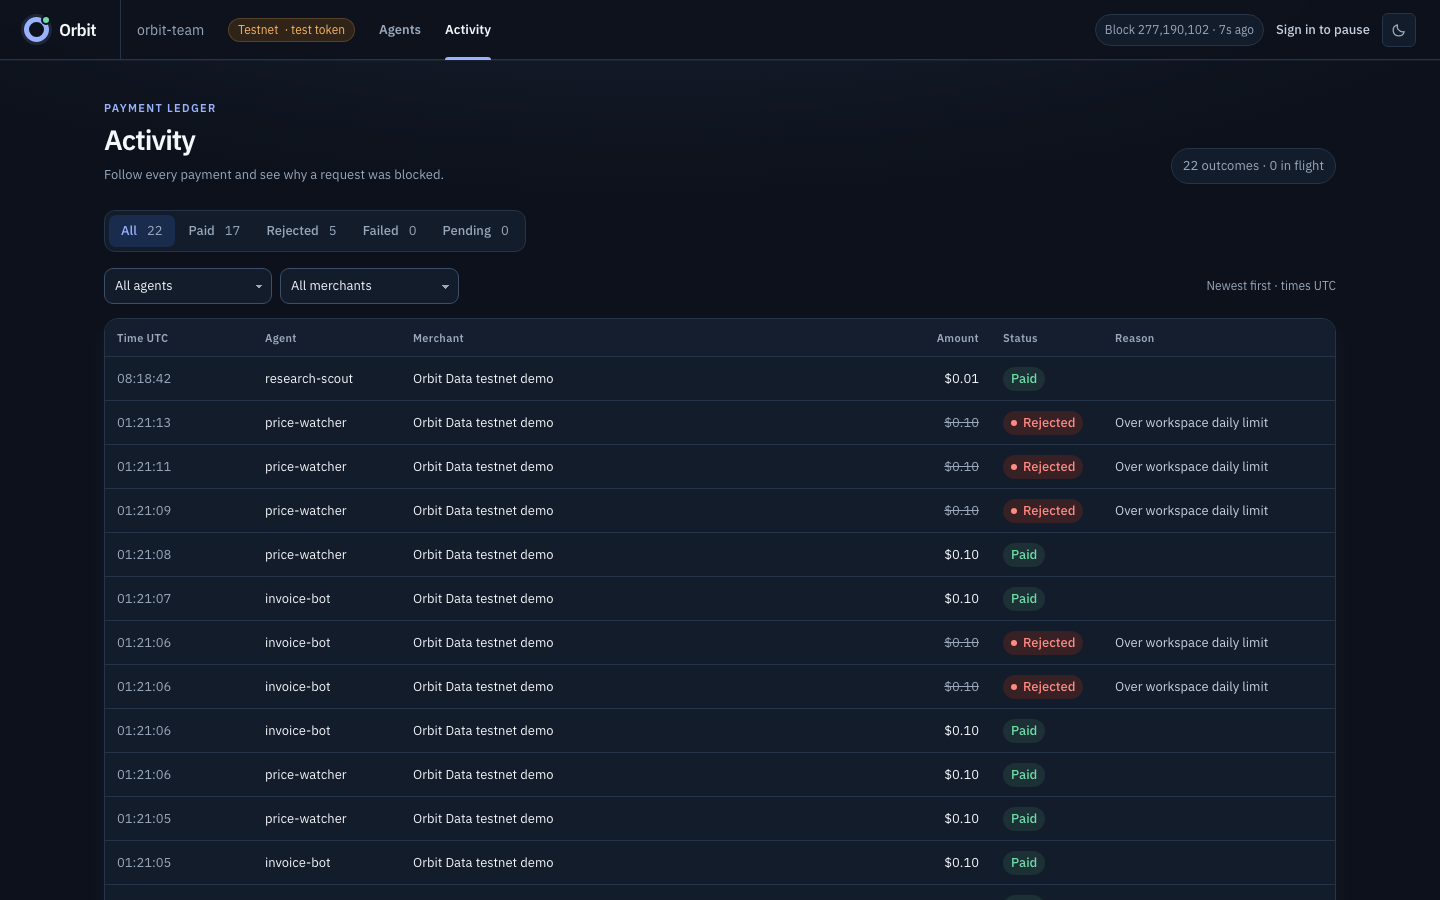
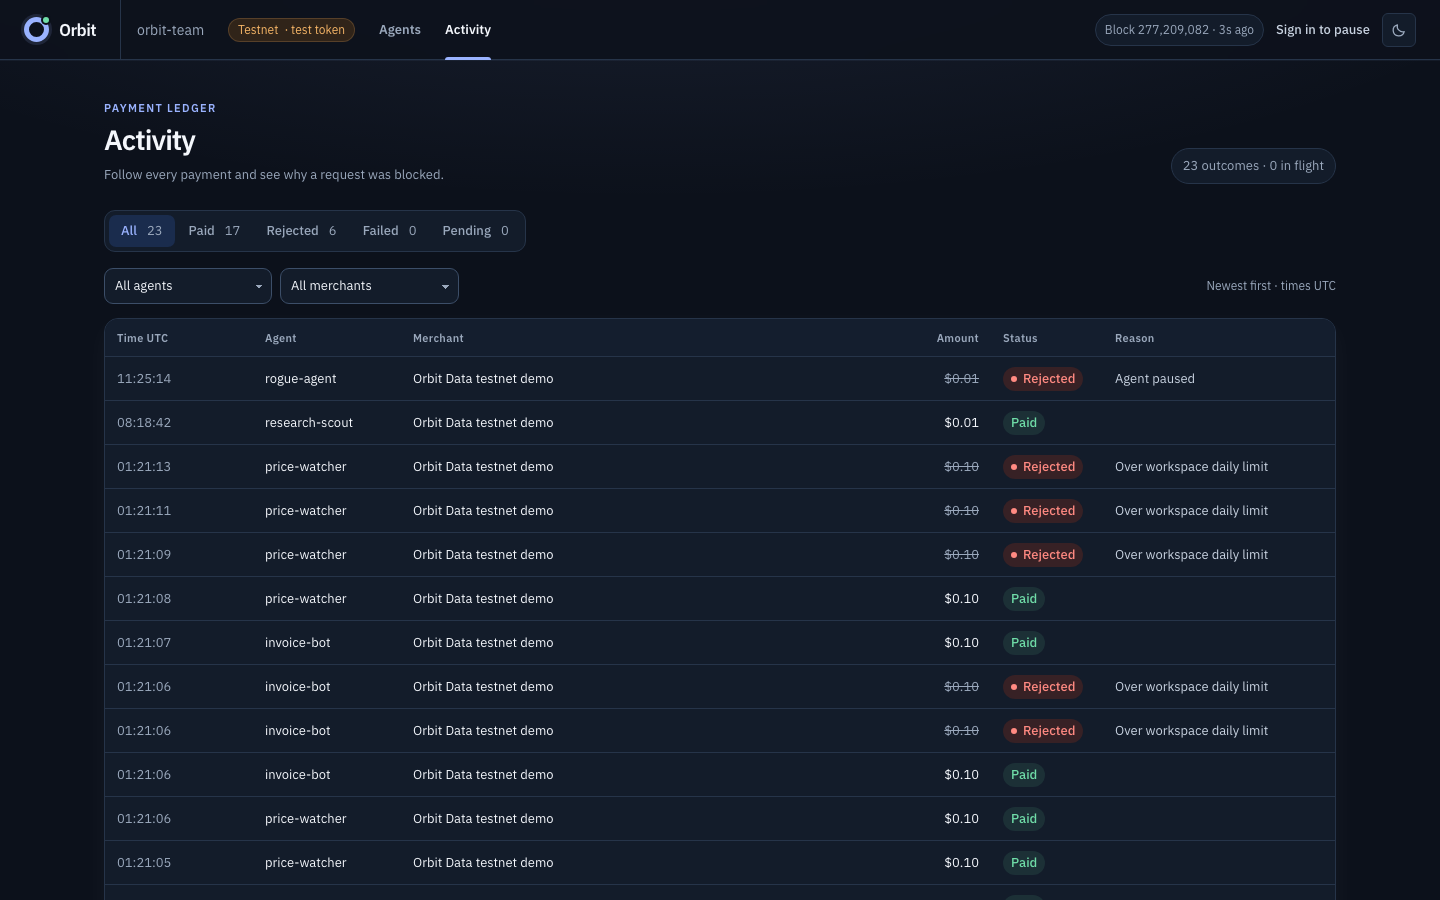
Verify live guardian pause and rejected agent payment

diff --git a/evidence/README.md b/evidence/README.md
@@ -10,6 +10,7 @@ These files are reproducible observations, not a completed NEAR Hackathon submis
 | [Fresh 402 account diagnostic](testnet-fresh-audit-2026-11-11.json) | A new 11 November run received a 402 invoice, paid 0.01 open-mint test tokens through the version 1.1 vault, and received HTTP 200 with final RPC account data. `node scripts/verify-public-proof.mjs evidence/testnet-fresh-audit-2026-11-11.json` independently rechecks the final payment, signer scope, vault event, and token transfer. | Agent Market assignment, commercial paid-data value, or a real-value token. The verifier does not replay the historical HTTP response. |
 | [Live workspace burst](testnet-workspace-burst-2026-11-11.json) | Two distinct pay-only agent keys submitted 20 concurrent $0.10 payments in one workspace; 15 paid, five were rejected at the $1.50 cap. `node scripts/verify-workspace-burst.mjs` rechecks the 20 final transactions and events. | A company-wide burst on this deployment, a marketplace buyer, or production-value tokens. |
 | [Version 1.1 dashboard check](testnet-dashboard-2026-11-11.json), [desktop](workspace-cap-dashboard-desktop.png), [mobile](workspace-cap-dashboard-mobile.png), [activity](workspace-cap-activity.png) | Against the live vault, RPC and API dashboards matched the workspace-aware vault state, the API activity had no gaps, and 73 UI checks passed with none failed. The images show the exhausted operations workspace, activity outcomes and two layouts. | A real Agent Market job, browser wallet signing, or a fresh payment from the screenshot alone. The pause action was not run in this check. |
+| [Guardian pause and rejected pay](testnet-guardian-pause-2026-11-11.json), [dashboard checks](testnet-guardian-dashboard-2026-11-11.json), [paused row](testnet-guardian-paused-dashboard.png) | The separate guardian key paused `rogue-agent` through the live dashboard; the agent's next $0.01 pay was rejected as `agent_paused` before the exhausted workspace cap. `node scripts/verify-guardian-pause.mjs` checks the final transactions, events, current key scopes and accounting from public RPC. The pause dashboard run passed 81 checks with none failed. | A marketplace job or production-value token. Current key scope does not prove historical key scope. |
 | [Shared-cap sandbox T-14b](sandbox-shared-cap-t14b.json) | 20 concurrent payments from four keys against one shared cap: 5 paid, 15 rejected; all receipts settled. | An external buyer, merchant, or marketplace job; this is a local NEAR sandbox run. |
 | [Live testnet fleet demo](testnet-demo-2026-10-30.json) | 13 distinct paid purchases; 49 end-to-end checks passed, none failed; merchant balance rose by the exact paid amount; all 13 transaction hashes appeared as verified dashboard receipts. | Autonomous marketplace jobs or commercially valuable paid data. |
 | [Paid account diagnostic](testnet-account-audit-2026-10-30.json) | One real testnet vault payment for a merchant response derived from final NEAR RPC account and key reads. The final `payment(id)` is `paid` and the transaction contains matching payment events. | A marketplace assignment or third-party paid-data adoption. The underlying RPC data is public. |
@@ -22,6 +23,7 @@ These files are reproducible observations, not a completed NEAR Hackathon submis
 
 - `node scripts/verify-public-proof.mjs evidence/testnet-workspace-audit-2026-11-11.json` independently rechecks the fresh diagnostic's final vault payment, signer key scope, pause-only guardian, signed `pay` arguments, matching `payment_paid` event, and NEP-141 transfer using public testnet RPC. It passed on 11 November. It cannot recheck the historical HTTP response or turn a test token into real money.
 - `node scripts/verify-workspace-burst.mjs` rechecked all 20 final testnet transactions from the version 1.1 operations-workspace run. Fifteen emitted matching vault payment and token transfer events; five emitted workspace-limit rejections and no token transfer. It checks the signers' current pay-only permissions and workspace assignments, not their historical permissions at each transaction block.
+- `node scripts/verify-guardian-pause.mjs` passed 15 independent public-RPC checks for the guardian's final pause, the agent's final `agent_paused` rejection, exact function-call key scopes, matching events, no transfer event, and token conservation. The screenshot shows the confirmed paused row; the updated Activity image shows the rejection.
 - `TESTNET_VAULT=orbit-ws-11a7-vault.testnet GUARDIAN_KEY_FILE=<local path> node harness/ui/check-testnet.mjs` passed 73 checks with no failures on 11 November. It reads the vault via public RPC, starts a temporary local API and dashboard, and confirms displayed amounts against the vault state. `TESTNET_PAUSE_AGENT` was unset, so this run did not send a guardian transaction. The first run exposed an outdated independent formula that omitted workspace caps; the formula and labels were fixed before this passing run.
 
 - `pnpm test`: 218 TypeScript tests passed; three external testnet tests skipped on 10 November 2026. One merchant testnet test was also run separately with a registered key and passed against the live vault on 30 October.

diff --git a/PROGRESS.md b/PROGRESS.md
@@ -10,13 +10,14 @@ This is a factual build status, not a hackathon strategy document.
 - CLI, demo-agent, dashboard and API type checks passed after the workspace change; CLI, demo-agent and dashboard tests passed.
 - Version 1.1 testnet vault `orbit-ws-11a7-vault.testnet`: code hash matched the local build; two owner-created workspaces, five restricted agent keys and 20 open-mint test tokens were provisioned. A final 402 purchase from the research workspace and matching token transfer passed `node scripts/verify-public-proof.mjs evidence/testnet-workspace-audit-2026-11-11.json`.
 - Live operations-workspace burst: two keys submitted 20 concurrent $0.10 payments; 15 paid, five were rejected by the $1.50 workspace cap, and the merchant received exactly 1.50 test tokens. `node scripts/verify-workspace-burst.mjs` passed against public final RPC transactions and events.
-- The API migrated its SQLite outcome constraint without losing existing rows and synced the version 1.1 testnet vault: 17 paid, five rejected after the fresh audit, no gap, and database counts match the vault. API migration and integration tests passed 41/41.
+- The API migrated its SQLite outcome constraint without losing existing rows and synced the version 1.1 testnet vault: 17 paid, six rejected after the guardian test, no gap, and database counts match the vault. API migration and integration tests passed 41/41.
 - The version 1.1 RPC and API dashboards passed 73 live-vault checks after the independent expected-value formula was updated for workspace limits. The operations workspace is exhausted; its three agents correctly show $0.00 spendable and a workspace-cap label. See [dashboard evidence](evidence/testnet-dashboard-2026-11-11.json).
 - A fresh 11 November research-agent account diagnostic crossed HTTP 402 → vault payment → HTTP 200. Independent public RPC verification passed for its signed pay-only transaction, final vault event and test-token transfer. See [fresh audit](evidence/testnet-fresh-audit-2026-11-11.json).
+- The guardian key paused `rogue-agent` through the live testnet dashboard; its next pay was rejected as `agent_paused`. The pause harness passed 81 checks, and `node scripts/verify-guardian-pause.mjs` independently verified both final transactions, events and current key scopes. See [guardian proof](evidence/testnet-guardian-pause-2026-11-11.json).
 
 ## In progress
 
-- A 47-second local demo video draft was rendered from live dashboard screenshots and the exact fresh testnet purchase output. It is a labeled evidence slideshow in `harness/out/demo/orbit-demo-draft.mp4`, not a continuous screen recording. The final public demo post and submission content remain in progress.
+- A 62-second local demo video draft was rendered from live dashboard screenshots, the exact fresh testnet purchase output, the workspace burst and guardian pause. It is a labeled evidence slideshow in `harness/out/demo/orbit-demo-draft.mp4`, not a continuous screen recording. The final public demo post and submission content remain in progress.
 
 ## Not demonstrated
 

diff --git a/DEMO.md b/DEMO.md
@@ -9,7 +9,7 @@
 | 0–10 s | Show the Agents dashboard with separate agent keys, two workspace budgets and one organization budget. | “An agent can pay for a job, but who stops its team or the whole fleet from overspending?” |
 | 10–35 s | Run `pnpm demo:agents audit --account near.testnet`. Show the HTTP 402 invoice, the agent's `pay` transaction, and the returned account data. Open the transaction link. If a live run stalls, show the [11 November verified run](evidence/testnet-fresh-audit-2026-11-11.json) and label it as recorded. | “Each agent holds a NEAR key limited to the vault's `pay` method. The merchant serves data only after it verifies the final vault payment.” |
 | 35–60 s | Show the recorded live workspace burst and run `node scripts/verify-workspace-burst.mjs`. Open one paid and one rejected transaction. | “Two pay-only agent keys raced 20 payments against one $1.50 operations budget. Fifteen settled and five were rejected on testnet.” The workspace is already at its cap, so replay the recorded run rather than claiming a second fresh burst. |
-| 60–80 s | In the live testnet dashboard, pause `rogue-agent`, then run `pnpm demo:attack --agent rogue-agent --once`. Show `agent_paused` in Activity. | “A separate guardian key can stop spending without being able to withdraw funds.” |
+| 60–80 s | Show the [recorded 11 November guardian pause](evidence/testnet-guardian-pause-2026-11-11.json), the [paused dashboard row](evidence/testnet-guardian-paused-dashboard.png), and the `agent_paused` rejection in Activity. The agent is already paused; label this as recorded. | “A separate guardian key stopped this agent. Its next payment was rejected on chain without a token transfer.” |
 | 80–90 s | Show the public repository's evidence index and the one-line status. | “The vault and 402 purchase work on testnet. The Agent Market seller worker is built, but a real marketplace assignment has not yet been completed.” |
 
 Use the version 1.1 testnet vault and open-mint test token (`otusd`, no monetary value). The paid diagnostic reads public NEAR RPC data; the synthetic quote endpoint should not appear in the hero clip. The workspace burst is a separate live testnet run, and the original organization-wide four-agent race remains a local sandbox run. Label their dates and environments.

diff --git a/README.md b/README.md
@@ -33,6 +33,8 @@ The [10 November one-shot diagnostic](evidence/testnet-audit-2026-11-10.json) re
 
 Anyone can recheck that recorded purchase and the vault's current key permissions without credentials: `node scripts/verify-public-proof.mjs`. It reads public final NEAR testnet RPC state and exits nonzero on a mismatch. It does not prove a marketplace job or the separate sandbox concurrency result.
 
+A [live guardian pause proof](evidence/testnet-guardian-pause-2026-11-11.json) records `rogue-agent` being paused through the dashboard and its next testnet payment being rejected as `agent_paused`. Run `node scripts/verify-guardian-pause.mjs` to check the two final transactions, current key scopes, matching events and vault accounting through public RPC. The agent remains paused in the current testnet demo state.
+
 A [fresh testnet receipt-link proof](evidence/testnet-receipt-link-2026-10-30.json) records a 402 purchase after the merchant was changed to require the signed transaction hash to contain the matching final `payment_paid` event.
 
 ## The problem
